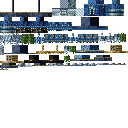
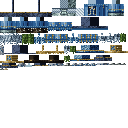
Apply Kort's Tidecallers rulings: beast portrait, lighter Admiral, cleaner Raider and Mist Caller
Brute portrait wide 28 -> beast 28. Admiral coat moved to a lighter sea blue
under the tint rule, with dark sea-blue lapels. Raider and Mist Caller lose
per-texel noise, specks and most kelp strands for clearer value blocks.
build_skins --verify 288 outputs; art_hue_check tidecallers PASS (70%, peak 212).

diff --git a/art/hand/tc_mist/build_tc_mist.py b/art/hand/tc_mist/build_tc_mist.py
@@ -38,13 +38,9 @@ def robe(base=2, seed="mr", folds=3):
         r = rng(seed, face, w, h)
         for y in range(h):
             for x in range(w):
-                v = base + lit(face, x, w) + r.choice((0, 0, 0, 0, 0, 0, 1))
-                if face not in ("top", "bottom"):
-                    if x % folds == folds - 1: v -= 1
-                    elif x % folds == 0 and y % 5 == 0: v += 1
+                v = base + lit(face, x, w)
+                if face not in ("top", "bottom") and x % folds == folds - 1: v -= 1   # a long fold
                 g[y][x] = clamp(SEA, v)
-        for _ in range(w * h // 90):
-            g[r.randrange(h)][r.randrange(w)] = BARN[1 + r.randrange(3)]
         return g
     return paint
 
@@ -58,13 +54,9 @@ def torso():
         if face == "front":
             for y in range(1, h):
                 g[y][w // 2 - 1] = SEA[3]; g[y][w // 2] = SEA[4]                      # the placket
-            for y in range(2, h, 3): g[y][w // 2 - 1] = SEA[5]
             for x in range(1, w - 1): g[1][x] = BARN[3 if x % 2 else 4]               # shell-bead necklace
             g[2][w // 2 - 1] = g[2][w // 2] = BARN[4]                                 # its pendant
             for x in range(w): g[h - 2][x] = SEA[4 if x % 2 else 3]                   # sea-blue waist band
-            for x in range(w): g[h - 3][x] = SEA[1]
-        if face == "back":
-            for x in range(w): g[3][x] = SEA[4 if x % 2 else 3]                       # a pale yoke seam
         return g
     return paint
 
@@ -117,7 +109,7 @@ def hem(tier_rows, band_rows, seed="mh", glyph_row=1, ragged=True):
         for x in range(w): g[top - 1][x] = SEA[0] if top > 0 else g[top - 1][x]    # the dark seam above the band
         for y in range(top, h):
             for x in range(w):
-                g[y][x] = clamp(BARN, 3 + (1 if (x + y) % 3 == 0 else 0) - (1 if (x * 2 + y) % 5 == 0 else 0) + r.choice((0, 0, 1)) + (LIT[face] // 2))
+                g[y][x] = clamp(BARN, 3 + (1 if y == top else 0) + (LIT[face] // 2))
         if face in ("front", "back", "left", "right") and band_rows >= 3:
             gy = top + 1
             for k, x0 in enumerate(range(1, w - 1, 4)):
@@ -129,7 +121,7 @@ def hem(tier_rows, band_rows, seed="mh", glyph_row=1, ragged=True):
         if ragged:
             for x in range(w):                                                      # crenulated barnacle edge
                 if r.random() < 0.3: g[h - 1][x] = None
-                elif r.random() < 0.4: g[h - 1][x] = BARN[2]
+                else: g[h - 1][x] = BARN[2]
         return g
     return paint
 
@@ -179,10 +171,8 @@ def hood():
         r = rng("mhd", face, w, h)
         for y in range(h):
             for x in range(w):
-                v = (3 if face in ("back", "left") else 2) + lit(face, x, w) + r.choice((0, 0, 0, 0, 0, 1))
-                if face not in ("top",):
-                    if x % 3 == 2: v -= 1
-                    elif (x * 2 + y) % 7 == 0: v += 1
+                v = 2 + lit(face, x, w)
+                if face != "top" and x % 4 == 3: v -= 1
                 g[y][x] = clamp(SEA, v)
         if face in ("left", "right"):
             for y in range(h): g[y][w - 1] = SEA[4] if y % 2 else SEA[3]            # the pale front edge (w-1 is toward -z or +z by face)
@@ -192,8 +182,6 @@ def hood():
         if face == "back":
             for x in range(w): g[h - 1][x] = SEA[1]
             for y in range(h): g[y][w // 2] = SEA[1]
-        for _ in range(max(1, w * h // 36)):
-            g[r.randrange(h)][r.randrange(w)] = BARN[1 + r.randrange(3)]
         return g
     return paint
 
@@ -223,14 +211,14 @@ def peak():
 def mantle():
     """A shoulder mantle crusted with pale barnacle clusters over deep sea blue."""
     def paint(face, w, h):
-        g = robe(2, "mm", 4)(face, w, h)
+        g = robe(4, "mm", 5)(face, w, h)
         r = rng("mmc", face, w, h)
-        for _ in range(max(3, w * h // 5)):
-            cx, cy = r.randrange(w), r.randrange(h)
-            for dx, dy in ((0, 0), (1, 0), (0, 1)):
-                if 0 <= cx + dx < w and 0 <= cy + dy < h: g[cy + dy][cx + dx] = clamp(BARN, 2 + r.randrange(3) + (1 if face == "top" else 0))
+        if face == "top":
+            for _ in range(4):
+                cx, cy = r.randrange(w - 1), r.randrange(h - 1)
+                for dx, dy in ((0, 0), (1, 0), (0, 1)): g[cy + dy][cx + dx] = BARN[4 if dx + dy == 0 else 3]
         if face not in ("top", "bottom"):
-            for x in range(w): g[h - 1][x] = SEA[4 if x % 2 else 3]
+            for x in range(w): g[h - 1][x] = SEA[2]                                    # the shadowed hem of the mantle
         return g
     return paint
 
@@ -240,7 +228,7 @@ def kelp(seed, hem=2):
         r = rng("mkelp", seed, face, w, h)
         for y in range(h):
             for x in range(w):
-                v = 4 + LIT[face] // 2 + r.choice((-1, 0, 0, 1))
+                v = 4 + LIT[face] // 2
                 if face in ("front", "back") and (x == w // 2 and w > 1): v -= 1
                 if y % 3 == 2 and face in ("front", "back") and x != w // 2: v += 1
                 g[y][x] = clamp(KELP, v)
@@ -348,11 +336,7 @@ def bones():
     for side in ("right", "left"):
         c = -1 if side == "right" else 1
         B.append(Bone(f"{side}_bell", f"{side}_arm", boxes=[Box((-2 + (0 if side == "right" else -1), 3, -2), (4, 5, 4), bell(), dil=0.8)]))
-        B.append(Bone(f"{side}_kelp_cuff", f"{side}_arm", boxes=[Box((-0.5 + (0 if side == "right" else -0.5) + 0.5 * (c > 0) * 0, 8, 1.9), (1, 6, 1), kelp((side, "cuff"), 2))]))
-        B.append(Bone(f"{side}_kelp_hood", "head", boxes=[Box((4.6 * c - 0.5, -2, -2.5), (1, 8, 1), kelp((side, "hood"), 3)),
-                                                         Box((4.6 * c - 0.5, -2, 1.5), (1, 6, 1), kelp((side, "hood2"), 2))]))
-    B.append(Bone("kelp_belt", "body", boxes=[Box((-3.5, -2, -2.7), (1, 9, 1), kelp("belt", 3)), Box((3.2, -2, 2.3), (1, 8, 1), kelp("belt2", 3))]))
-    B.append(Bone("kelp_hem", "root", boxes=[Box((-3.5, 22, -4), (1, 3, 1), kelp("hem", 2)), Box((2.5, 22, -4), (1, 2, 1), kelp("hem2", 1))]))
+        B.append(Bone(f"{side}_kelp_hood", "head", boxes=[Box((4.6 * c - 0.5, -2, -2.5), (1, 8, 1), kelp((side, "hood"), 3))]))
     # team cloth: a diagonal sash over the chest and a barry-wavy tail at the hip
     B.append(Bone("sash", "body", team=True, pivot=(0, -7, 0), rot=(0, 0, 40), boxes=[Box((-4, -1, -2.5), (8, 2, 5), "sash", sheet="cloth")]))
     B.append(Bone("sash_tail", "body", team=True, boxes=[

diff --git a/art/hand/tc_raider/build_tc_raider.py b/art/hand/tc_raider/build_tc_raider.py
@@ -38,12 +38,11 @@ def oilskin(base=2, seed="os"):
             for x in range(w):
                 v = base + LIT[face] + (lightx(face, x, w) if face not in ("top", "bottom") else 0)
                 if face not in ("top", "bottom"):
-                    if (x * 2 + y) % 7 == 0: v += 1                           # the wet sheen
-                    if x % 4 == 3: v -= 1                                      # a seam
+                    if x % 4 == 3 and y % 5 > 1: v -= 1                        # a long seam, broken
                     if y == 0: v += 1
                 g[y][x] = clamp(SEA, v)
         r = rng(seed, face, w, h)
-        for _ in range(max(1, w * h // 22)):
+        for _ in range(w * h // 70):
             g[r.randrange(h)][r.randrange(w)] = BARN[1 + r.randrange(3)]
         return g
     return paint
@@ -69,9 +68,9 @@ def sleeve():
 
 def arm_painter():
     def paint(face, w, h):
-        g = rows([(0, oilskin(2, "ra")), (5, TG.plate_b(FLESH, 2, "rf"))])(face, w, h)
+        g = rows([(0, oilskin(2, "ra")), (8, TG.plate_b(FLESH, 2, "rf"))])(face, w, h)
         if face not in ("top", "bottom"):
-            for x in range(w): g[4][x] = SEA[4 if x % 2 else 5]                # the sea-blue cuff
+            for x in range(w): g[7][x] = SEA[4]                                  # the sea-blue cuff
         return g
     return paint
 
@@ -97,12 +96,9 @@ def trousers():
         for y in range(h):
             for x in range(w):
                 v = 2 + LIT[face] + (lightx(face, x, w) if face not in ("top", "bottom") else 0)
-                if (x + y) % 4 == 0: v += 1
-                if r.random() < 0.08: v -= 1
                 g[y][x] = clamp(NAVY, v)
         if face not in ("top", "bottom"):
             for x in range(w): g[h - 1][x] = SEA[1 if x % 2 else 2]            # a frayed, stained hem
-            for _ in range(2): g[r.randrange(h - 1)][r.randrange(w)] = BARN[1 + r.randrange(3)]
         return g
     return paint
 
@@ -129,7 +125,7 @@ def belly():
         r = rng("belly", face, w, h)
         for y in range(h):
             for x in range(w):
-                v = 2 + LIT[face] + (lightx(face, x, w) if face not in ("top", "bottom") else 0) + r.choice((-1, 0, 0, 0, 1))
+                v = 3 + LIT[face] + (lightx(face, x, w) if face not in ("top", "bottom") else 0)
                 if face == "front" and x == w // 2 and 0 < y < h - 1: v -= 1   # the line down the belly
                 g[y][x] = clamp(BLOAT, v)
         return g
@@ -194,7 +190,7 @@ def kelp(seed, hem=2):
         r = rng("kelp", seed, face, w, h)
         for y in range(h):
             for x in range(w):
-                v = 3 + LIT[face] // 2 + r.choice((-1, 0, 0, 1))
+                v = 3 + LIT[face] // 2
                 if face in ("front", "back") and (x == w // 2 or w == 1): v -= 1
                 if y % 3 == 2 and face in ("front", "back") and x != w // 2: v += 1
                 g[y][x] = clamp(KELP, v)
@@ -248,7 +244,7 @@ def strand(name, parent, pivot, rot, boxes):
 def bones():
     B = [Bone("root", "")]
     B.append(Bone("body", "root", (0, 12, 0), [Box((-4.5, -12, -2.5), (9, 12, 5), coat())], rot=(HUNCH, 0, 0)))
-    B.append(Bone("belly", "body", boxes=[Box((-3.5, -8, -3.7), (7, 5, 1.2), belly())]))
+    B.append(Bone("belly", "body", boxes=[Box((-2, -8, -3.4), (4, 5, 0.9), belly())]))
     B.append(Bone("head", "body", (0, -12, 0), [Box((-4.5, -8, -4), (9, 8, 8), face_painter_raider())], rot=(-HUNCH * 0.6, 0, 0)))
     # the turtle-shell helmet: a broad dome in three stepped plates and a flared back guard over the nape
     B.append(Bone("helm", "head", tag="helm", boxes=[
@@ -266,7 +262,6 @@ def bones():
     B.append(Bone("skirt", "body", boxes=[Box((-5, -3, -3), (10, 6, 6), skirt(), dil=0.1)]))
     B.append(Bone("belt", "body", boxes=[Box((-4.5, -4, -2.5), (9, 2, 5), belt(), dil=0.5)]))
     B.append(Bone("barnacles", "body", boxes=[
-        Box((1, -9.5, -2.9), (2, 1, 1), barnacle()), Box((2.5, -8.5, -2.9), (1, 1, 1), barnacle()),
         Box((-5.2, -11.5, -1), (1, 2, 2), barnacle()), Box((4.6, -5, 0), (1, 1, 2), barnacle())]))
     B.append(Bone("net", "body", boxes=[Box((-3, -11, 2.6), (6, 4, 2), net())]))
     B.append(Bone("scarf", "body", team=True, boxes=[Box((-4.7, -12.5, -2.7), (9.4, 2, 5.4), "scarf", sheet="cloth")]))
@@ -276,12 +271,9 @@ def bones():
     B.append(strand("kelp_helm", "head", (0, -4, 4.5), (30, 0, 0), [((-2.5, 0, 0), (2, 7, 1)), ((1, 0, 0.4), (2, 9, 1))]))
     for side in ("right", "left"):
         c = -1 if side == "right" else 1
-        B.append(strand(f"kelp_{side}_shoulder", "body", (5 * c, -10.5, 0.5), (26, 0, 8 * c), [((-1, 0, 0), (2, 9, 1))]))
-        B.append(strand(f"kelp_{side}_arm", f"{side}_arm", (-1 if side == "right" else 1, 5, 2), (36, 0, 8 * c), [((-1, 0, 0), (2, 6, 1))]))
+        if side == "left": B.append(strand(f"kelp_{side}_shoulder", "body", (5 * c, -10.5, 0.5), (26, 0, 8 * c), [((-1, 0, 0), (2, 7, 1))]))
         B.append(Bone(f"{side}_wrap", f"{side}_arm", team=True, boxes=[Box((-2 + (0 if side == "right" else -1), 7, -2), (4, 2, 4), "wrap", dil=0.3, sheet="cloth")]))
         B.append(Bone(f"{side}_foot", f"{side}_leg", boxes=[Box((-2.5, 9, -3.5), (5, 3, 5.5), foot())]))
-    B.append(strand("kelp_belt", "body", (-3, -3, 2.5), (24, 0, -4), [((-1, 0, 0), (2, 10, 1))]))
-    B.append(Bone("shin_wrap", "left_leg", boxes=[Box((-2, 6, -2), (4, 3, 4), kelp_wrap(), dil=0.25)]))
     return B
 
 NOTE = ("Tidecaller Drowned Raider (unit identity, Tidecallers): drowned light skirmisher, biped, leaning forward (hunch baked into the bones); "

diff --git a/art/hand/tc_admiral/build_tc_admiral.py b/art/hand/tc_admiral/build_tc_admiral.py
@@ -24,7 +24,7 @@ from build_tc_tideguard import VERD as SEA, FLESH, BARN, scuff, rng
 SKIN = (128, 128)
 CLOTH = (128, 64)
 
-COAT = ramp("070d1c", "0d1a34", "142a52", "1d3f70", "2b5a92", "4378ad")          # deep sea-navy, wet and salt-faded
+COAT = ramp("0c1830", "16305c", "214c80", "2e6297", "6691b7", "9ab6cc")          # officer's sea blue (Kort 2026-11-02: lighter, toward SEA), lights under the tint rule
 GILT = ramp("241a08", "4a3815", "6f5a26", "96783a", "b89a54", "dcc487")          # tarnished naval gilt, #96783A at the core
 PALE = ramp("2c3a3c", "52666a", "7e9694", "a9bfbb", "cfdcd6", "ecf4ee")          # the drowned face
 HAIR = ramp("1b2531", "37495b", "62788b", "94a8b6", "c4d2db", "eaf1f5")          # silver-blue hair, adrift
@@ -42,15 +42,11 @@ def coat_base(base=3, seed="ac", wear=1):
         r = rng("ac", seed, face, w, h)
         for y in range(h):
             for x in range(w):
-                v = base + lit(face, x, w) + r.choice((-1, 0, 0, 0, 1))
-                if face not in ("top", "bottom"):
-                    if (x * 3 + y) % 8 == 0: v += 1
-                    if x % 4 == 3: v -= 1
+                v = base + lit(face, x, w)                                          # lit faces sit on the light tone 4, shaded sides on vivid tone 3
+                if face not in ("top", "bottom") and x % 4 == 3 and y % 6 > 1: v -= 1   # a few long fold lines
                 g[y][x] = clamp(COAT, v)
-        for _ in range(max(1, w * h * wear // 40)):
-            g[r.randrange(h)][r.randrange(w)] = COAT[1]
-        for _ in range(max(1, w * h // 60)):
-            g[r.randrange(h)][r.randrange(w)] = BARN[1 + r.randrange(2)]
+        for _ in range(w * h * wear // 80):
+            g[r.randrange(h)][r.randrange(w)] = COAT[2]                             # sparse salt-dark stains
         return g
     return paint
 
@@ -70,7 +66,7 @@ def body_coat():
                 wl = 3 if y <= 4 else 2
                 for x in range(wl):
                     for xx in (x, w - 1 - x):
-                        g[y][xx] = SEA[3 if x else 2]
+                        g[y][xx] = SEA[1 if x else 0] if x < wl - 1 or wl == 2 else SEA[1]   # dark sea-blue facings
                 ei = wl                                                             # the gilt edge along the lapel
                 g[y][ei] = GILT[3] if y % 2 else SEA[4]; g[y][w - 1 - ei] = GILT[3] if y % 2 else SEA[4]
             for y in range(2, 5):

diff --git a/art/hand/tc_brute/build_tc_brute.py b/art/hand/tc_brute/build_tc_brute.py
@@ -341,7 +341,7 @@ NOTE = ("Kraken-touched Brute (unit identity, Tidecallers; Epic; ravager entity 
         "with four 8 px kraken tentacles from the jaw (the signature), sea-blue girth strap, breast plate, pauldrons, brow plate and muzzle "
         "strap as fixed accent, a team-colour saddle mantle over the shoulders. Tier I only. No back flag.")
 TC_BRUTE = Troop("tc_brute", SKIN, CLOTH, bones, cloth_painter,
-                 {"rig": "hound", "weapon": "none", "hand": "right", "idleArms": "hang", "portrait": "wide 28"}, tiers=(1,), glow=glow)
+                 {"rig": "hound", "weapon": "none", "hand": "right", "idleArms": "hang", "portrait": "beast 28"}, tiers=(1,), glow=glow)
 def build(): return TC_BRUTE.build()
 def outputs(): return TC_BRUTE.outputs()
 

diff --git a/work/TIDECALLERS-HANDOFF.md b/work/TIDECALLERS-HANDOFF.md
@@ -15,6 +15,7 @@ build_skins --verify: 288 outputs verified. art_hue_check: tidecallers PASS (68%
 ## Polish left
 Raider kelp dense on back; Harpooner coat dark, brim tail flat; Mist upper body dark, skirt may clip; Brute boxy hind, big flat teal mantle; Admiral tricorne boxy, tails muddy, anchor faint. Weapons not seen in hand.
 
-## Questions for Kort
-- Brute: more bulk (shoulder hump, heavier forelegs)? Portrait "wide 28" vs "beast 28".
-- Admiral coat: lighter/bluer like the Tideguard, or dark for menace?
+## Kort rulings applied (2026-11-02)
+- Brute portrait "beast 28". Admiral coat lighter sea blue (body tone #6691B7, shaded #2E6297) with dark sea-blue lapels.
+- Raider and Mist Caller simplified: noise, specks and most kelp strands removed; Raider sleeves to the wrist and a
+  narrow belly; Mist hood dark, mantle pale, hem band flat. Before/after: work/tidecallers-polish-before-after.png.
